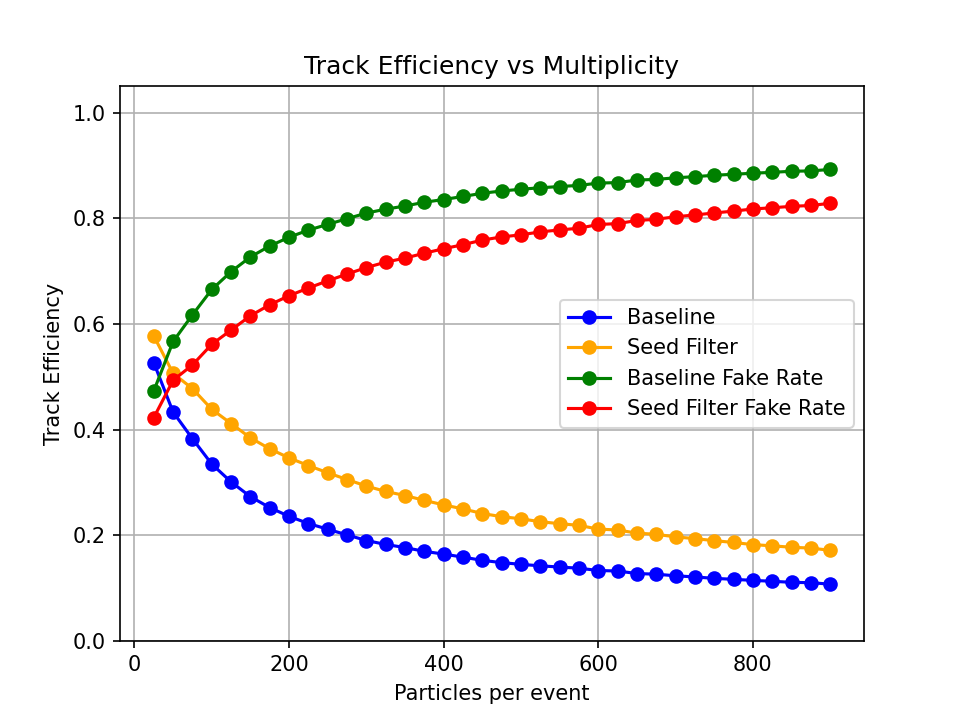
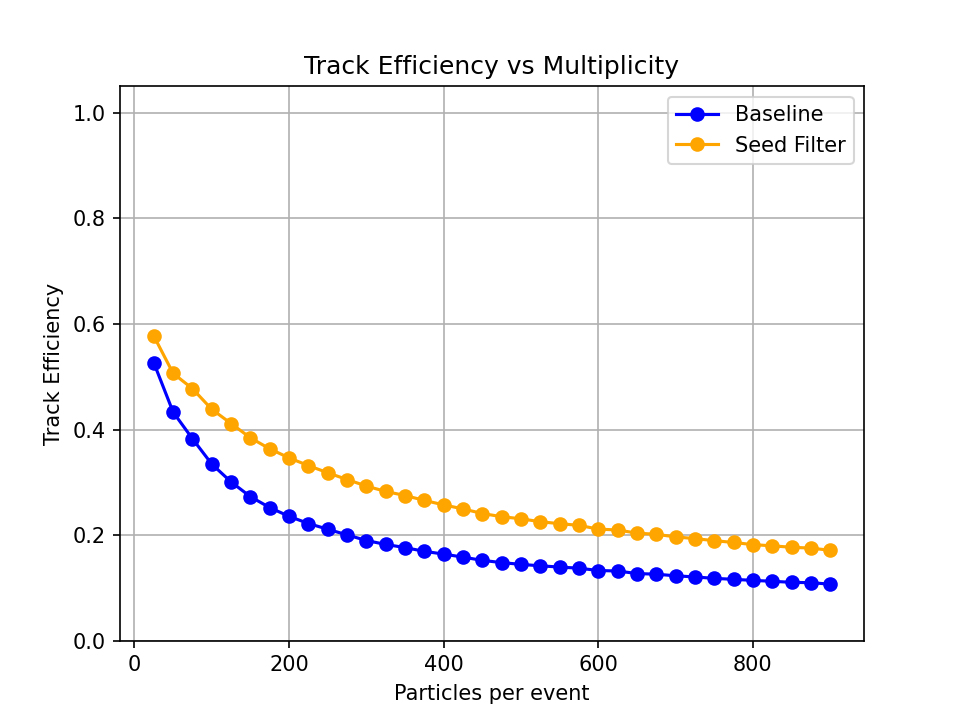
new plots

diff --git a/acts/z_btr_files/plot_scripts/eff_vs_multiplicity.py b/acts/z_btr_files/plot_scripts/eff_vs_multiplicity.py
@@ -62,8 +62,8 @@ def eff_vs_mult():
     plt.figure()
     plt.plot(particles_per_event, efficiencies_baseline, "o-", color="blue",  label="Baseline")
     plt.plot(particles_per_event, efficiencies_sf,       "o-", color="orange", label="Seed Filter")
-    plt.plot(particles_per_event, fake_baseline, "o-", color="green",  label="Baseline Fake Rate")
-    plt.plot(particles_per_event, fake_sf,       "o-", color="red", label="Seed Filter Fake Rate")
+   # plt.plot(particles_per_event, fake_baseline, "o-", color="green",  label="Baseline Fake Rate")
+   # plt.plot(particles_per_event, fake_sf,       "o-", color="red", label="Seed Filter Fake Rate")
     plt.title("Track Efficiency vs Multiplicity")
     plt.xlabel("Particles per event")
     plt.ylabel("Track Efficiency")
@@ -73,6 +73,34 @@ def eff_vs_mult():
     plt.savefig("z_btr_files/efficiency_vs_multiplicity.png", dpi=150)
     plt.close()
 
+    plt.figure()
+   # plt.plot(particles_per_event, efficiencies_baseline, "o-", color="blue",  label="Baseline")
+   # plt.plot(particles_per_event, efficiencies_sf,       "o-", color="orange", label="Seed Filter")
+    plt.plot(particles_per_event, fake_baseline, "o-", color="green",  label="Baseline Fake Rate")
+    plt.plot(particles_per_event, fake_sf,       "o-", color="red", label="Seed Filter Fake Rate")
+    plt.title("Fake Rate vs Multiplicity")
+    plt.xlabel("Particles per event")
+    plt.ylabel("Track Efficiency")
+    plt.ylim(0, 1.05)
+    plt.grid()
+    plt.legend()
+    plt.savefig("z_btr_files/fake_rate_vs_multiplicity.png", dpi=150)
+    plt.close()
+
+    plt.figure()
+    plt.plot(particles_per_event, efficiencies_baseline, "o-", color="blue",  label="Baseline")                                                                                         
+    plt.plot(particles_per_event, efficiencies_sf,       "o-", color="orange", label="Seed Filter")                                                                                     
+    plt.plot(particles_per_event, fake_baseline, "o-", color="green",  label="Baseline Fake Rate")
+    plt.plot(particles_per_event, fake_sf,       "o-", color="red", label="Seed Filter Fake Rate")
+    plt.title("Fake Rate vs Multiplicity")
+    plt.xlabel("Particles per event")
+    plt.ylabel("Track Efficiency")
+    plt.ylim(0, 1.05)
+    plt.grid()
+    plt.legend()
+    plt.savefig("z_btr_files/both_vs_multiplicity.png", dpi=150)
+    plt.close()
+    
     efficiencies_sf_baseline = []
     efficiencies_sf_baseline_minus = []
     counter = 1

diff --git a/acts/z_btr_files/mlp_model.py b/acts/z_btr_files/mlp_model.py
@@ -89,7 +89,7 @@ FEATURE_COLS = [
      # engineered features
      "pull_loc0", "pull_loc1",
      "dist_bm", "dist_mt", "dist_bt", "dist_ratio",
-# ]
+ ]
 
 CSV_DIR = Path("/data/alice/idumitra/thesis_tracking/acts")  # adjust path
 
